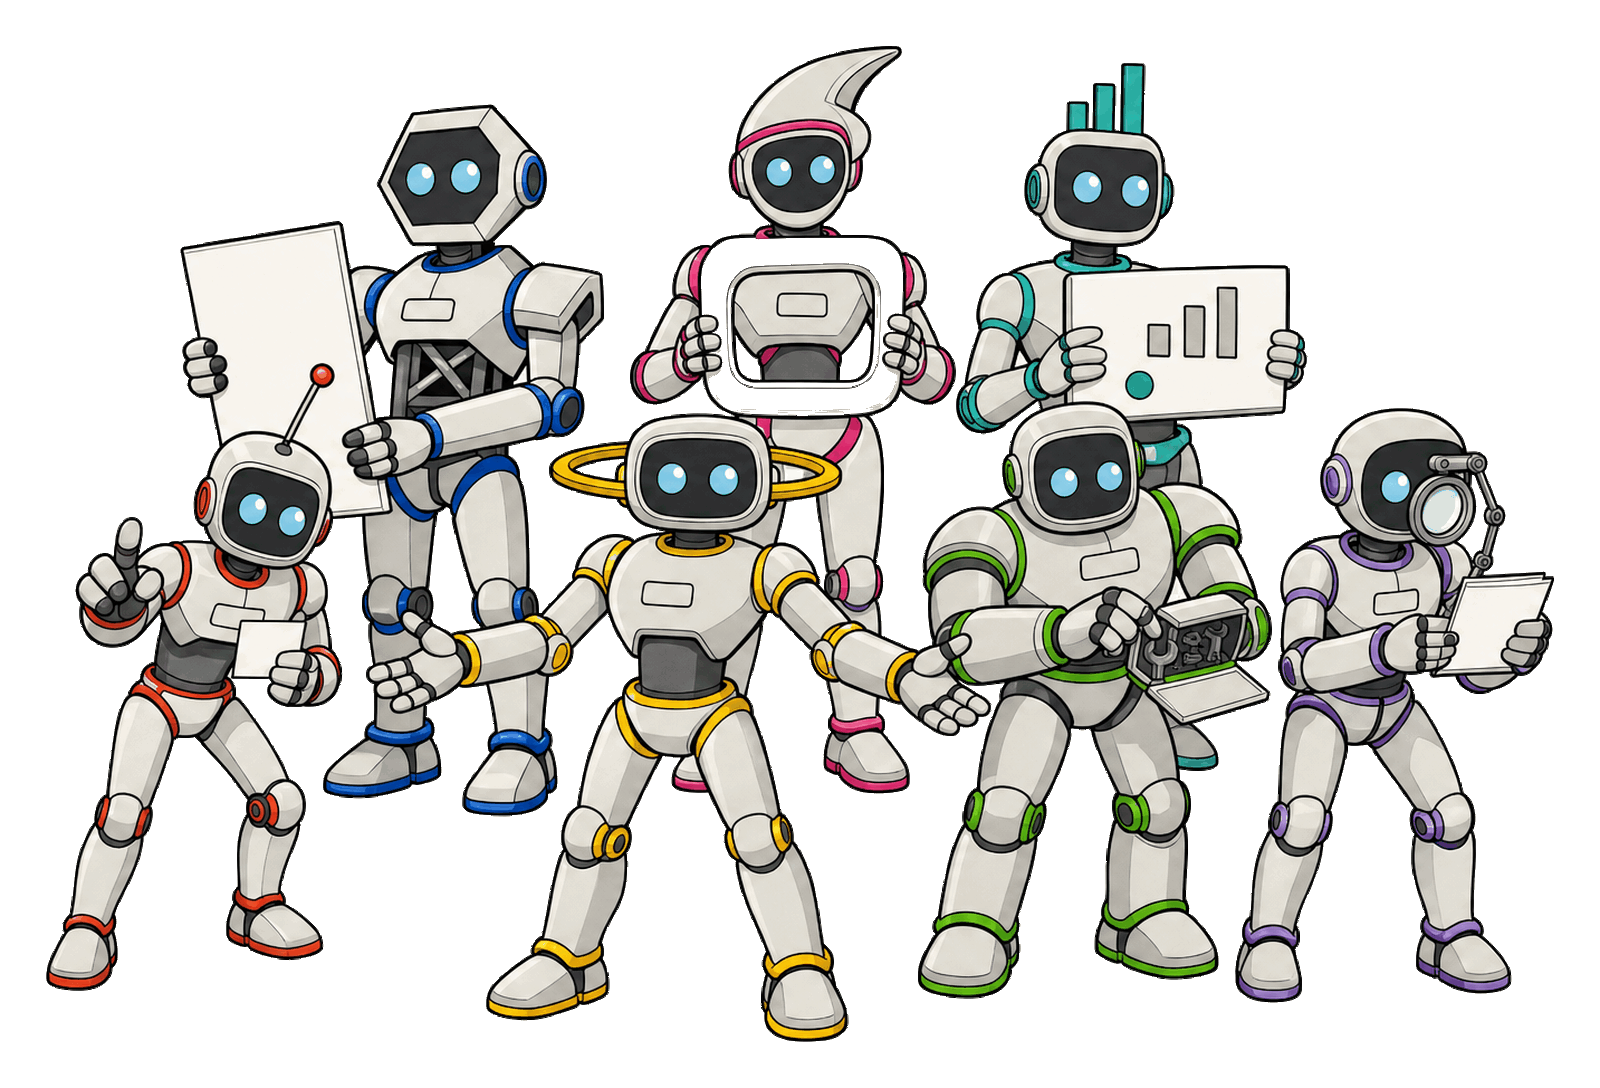
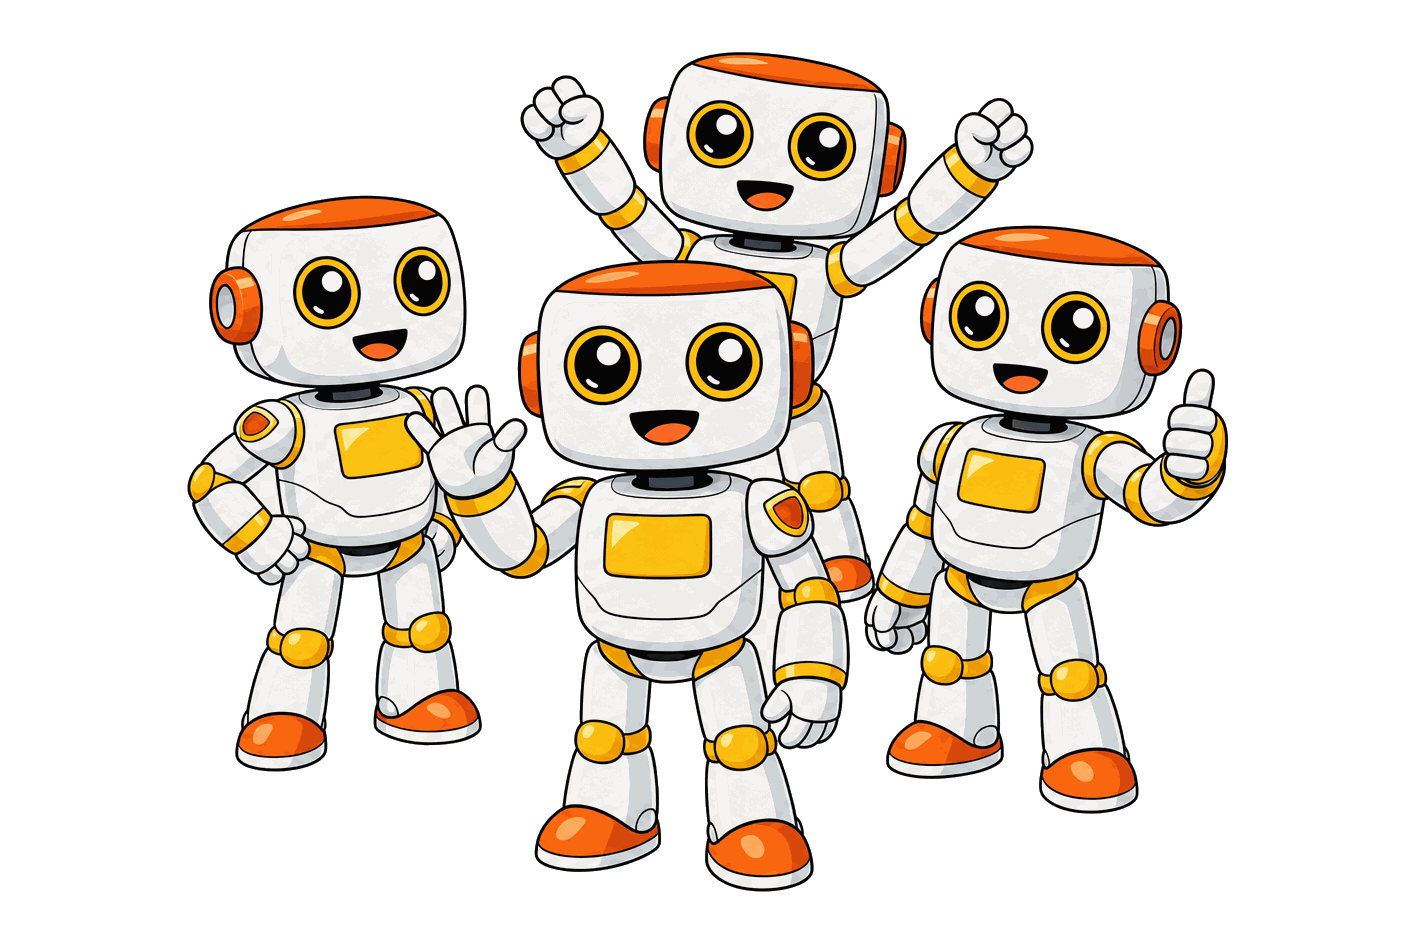
docs: replace illustrations with a single Kromatic mascot team image
The first attempt invented seven bespoke robot designs instead of using the
registered cute-robot character, and added per-persona portraits to the table.
Both removed.

- One landscape hero image using Kromatic's existing mascot and its reference
  images, transparent so it renders on light and dark themes
- Persona table back to three columns, no portraits
- Remove the Claude Code / portability paragraph

diff --git a/README.md b/README.md
@@ -3,7 +3,7 @@
 **The delivery workflow [Kromatic](https://kromatic.com) uses to ship software** — seven agent personas with human gates between them.
 
 <p align="center">
-  <img src="docs/images/robot-team-hero.png" width="900" alt="The seven-persona team: product manager, orchestrator, architect, designer, developer, QA reviewer, and analyst">
+  <img src="docs/images/robot-team-hero.png" width="900" alt="A team of Kromatic robots working together">
 </p>
 
 **Quickstart — copy and paste this prompt into your agent of choice:**
@@ -18,8 +18,6 @@ my conventions. Ask me before each one.
 ```
 
 Full detail, including manual installation, is in **[INSTALL.md](INSTALL.md)**.
-
-> Shipped as [Claude Code skills](https://docs.claude.com/en/docs/claude-code/skills), because that's what we run. The process itself is not Claude-specific — the personas are prompts and the gates are rules, so they port to any agent setup that can hold a role and hand off.
 
 ## Why bother
 
@@ -100,15 +98,15 @@ Each role ships as a named persona you invoke directly — `/perlman`, `/occam`,
 
 They're named for historical figures whose actual work maps to the role:
 
-|  | Persona | Role | Named for |
-|---|---|---|---|
-| <img src="docs/images/robot-perlman.png" width="110" alt=""> | **Perlman** | Product Manager | Radia Perlman, who invented the protocol that stops a distributed system looping forever |
-| <img src="docs/images/robot-occam.png" width="110" alt=""> | **Occam** | Orchestrator | William of Ockham, the 14th-century friar whose razor says don't multiply entities beyond necessity — which is most of an orchestrator's job |
-| <img src="docs/images/robot-zaha.png" width="110" alt=""> | **Zaha** | Architect | Zaha Hadid, the first woman to win the Pritzker Prize for architecture |
-| <img src="docs/images/robot-eiko.png" width="110" alt=""> | **Eiko** | Designer | Eiko Ishioka, the Oscar-winning designer whose work spanned film, stage, and advertising |
-| <img src="docs/images/robot-dorothy.png" width="110" alt=""> | **Dorothy** | Developer | Dorothy Vaughan, who led NASA's West Area Computing unit and taught herself FORTRAN to keep her team employed |
-| <img src="docs/images/robot-quine.png" width="110" alt=""> | **Quine** | QA | W.V.O. Quine, the logician — and a quine is also a program that reproduces its own source |
-| <img src="docs/images/robot-aristotle.png" width="110" alt=""> | **Aristotle** | Analyst | Aristotle, who insisted conclusions come from observation rather than from how good the argument sounds |
+| Persona | Role | Named for |
+|---|---|---|
+| **Perlman** | Product Manager | Radia Perlman, who invented the protocol that stops a distributed system looping forever |
+| **Occam** | Orchestrator | William of Ockham, the 14th-century friar whose razor says don't multiply entities beyond necessity — which is most of an orchestrator's job |
+| **Zaha** | Architect | Zaha Hadid, the first woman to win the Pritzker Prize for architecture |
+| **Eiko** | Designer | Eiko Ishioka, the Oscar-winning designer whose work spanned film, stage, and advertising |
+| **Dorothy** | Developer | Dorothy Vaughan, who led NASA's West Area Computing unit and taught herself FORTRAN to keep her team employed |
+| **Quine** | QA | W.V.O. Quine, the logician — and a quine is also a program that reproduces its own source |
+| **Aristotle** | Analyst | Aristotle, who insisted conclusions come from observation rather than from how good the argument sounds |
 
 **The names are a convention, not a dependency.** Nothing keys off them except the folder name, the `name:` field, and the references the personas make to each other. Rename them to suit your team — just change all three together or the handoffs break silently. `/harness-adopt` will do it properly.
 
